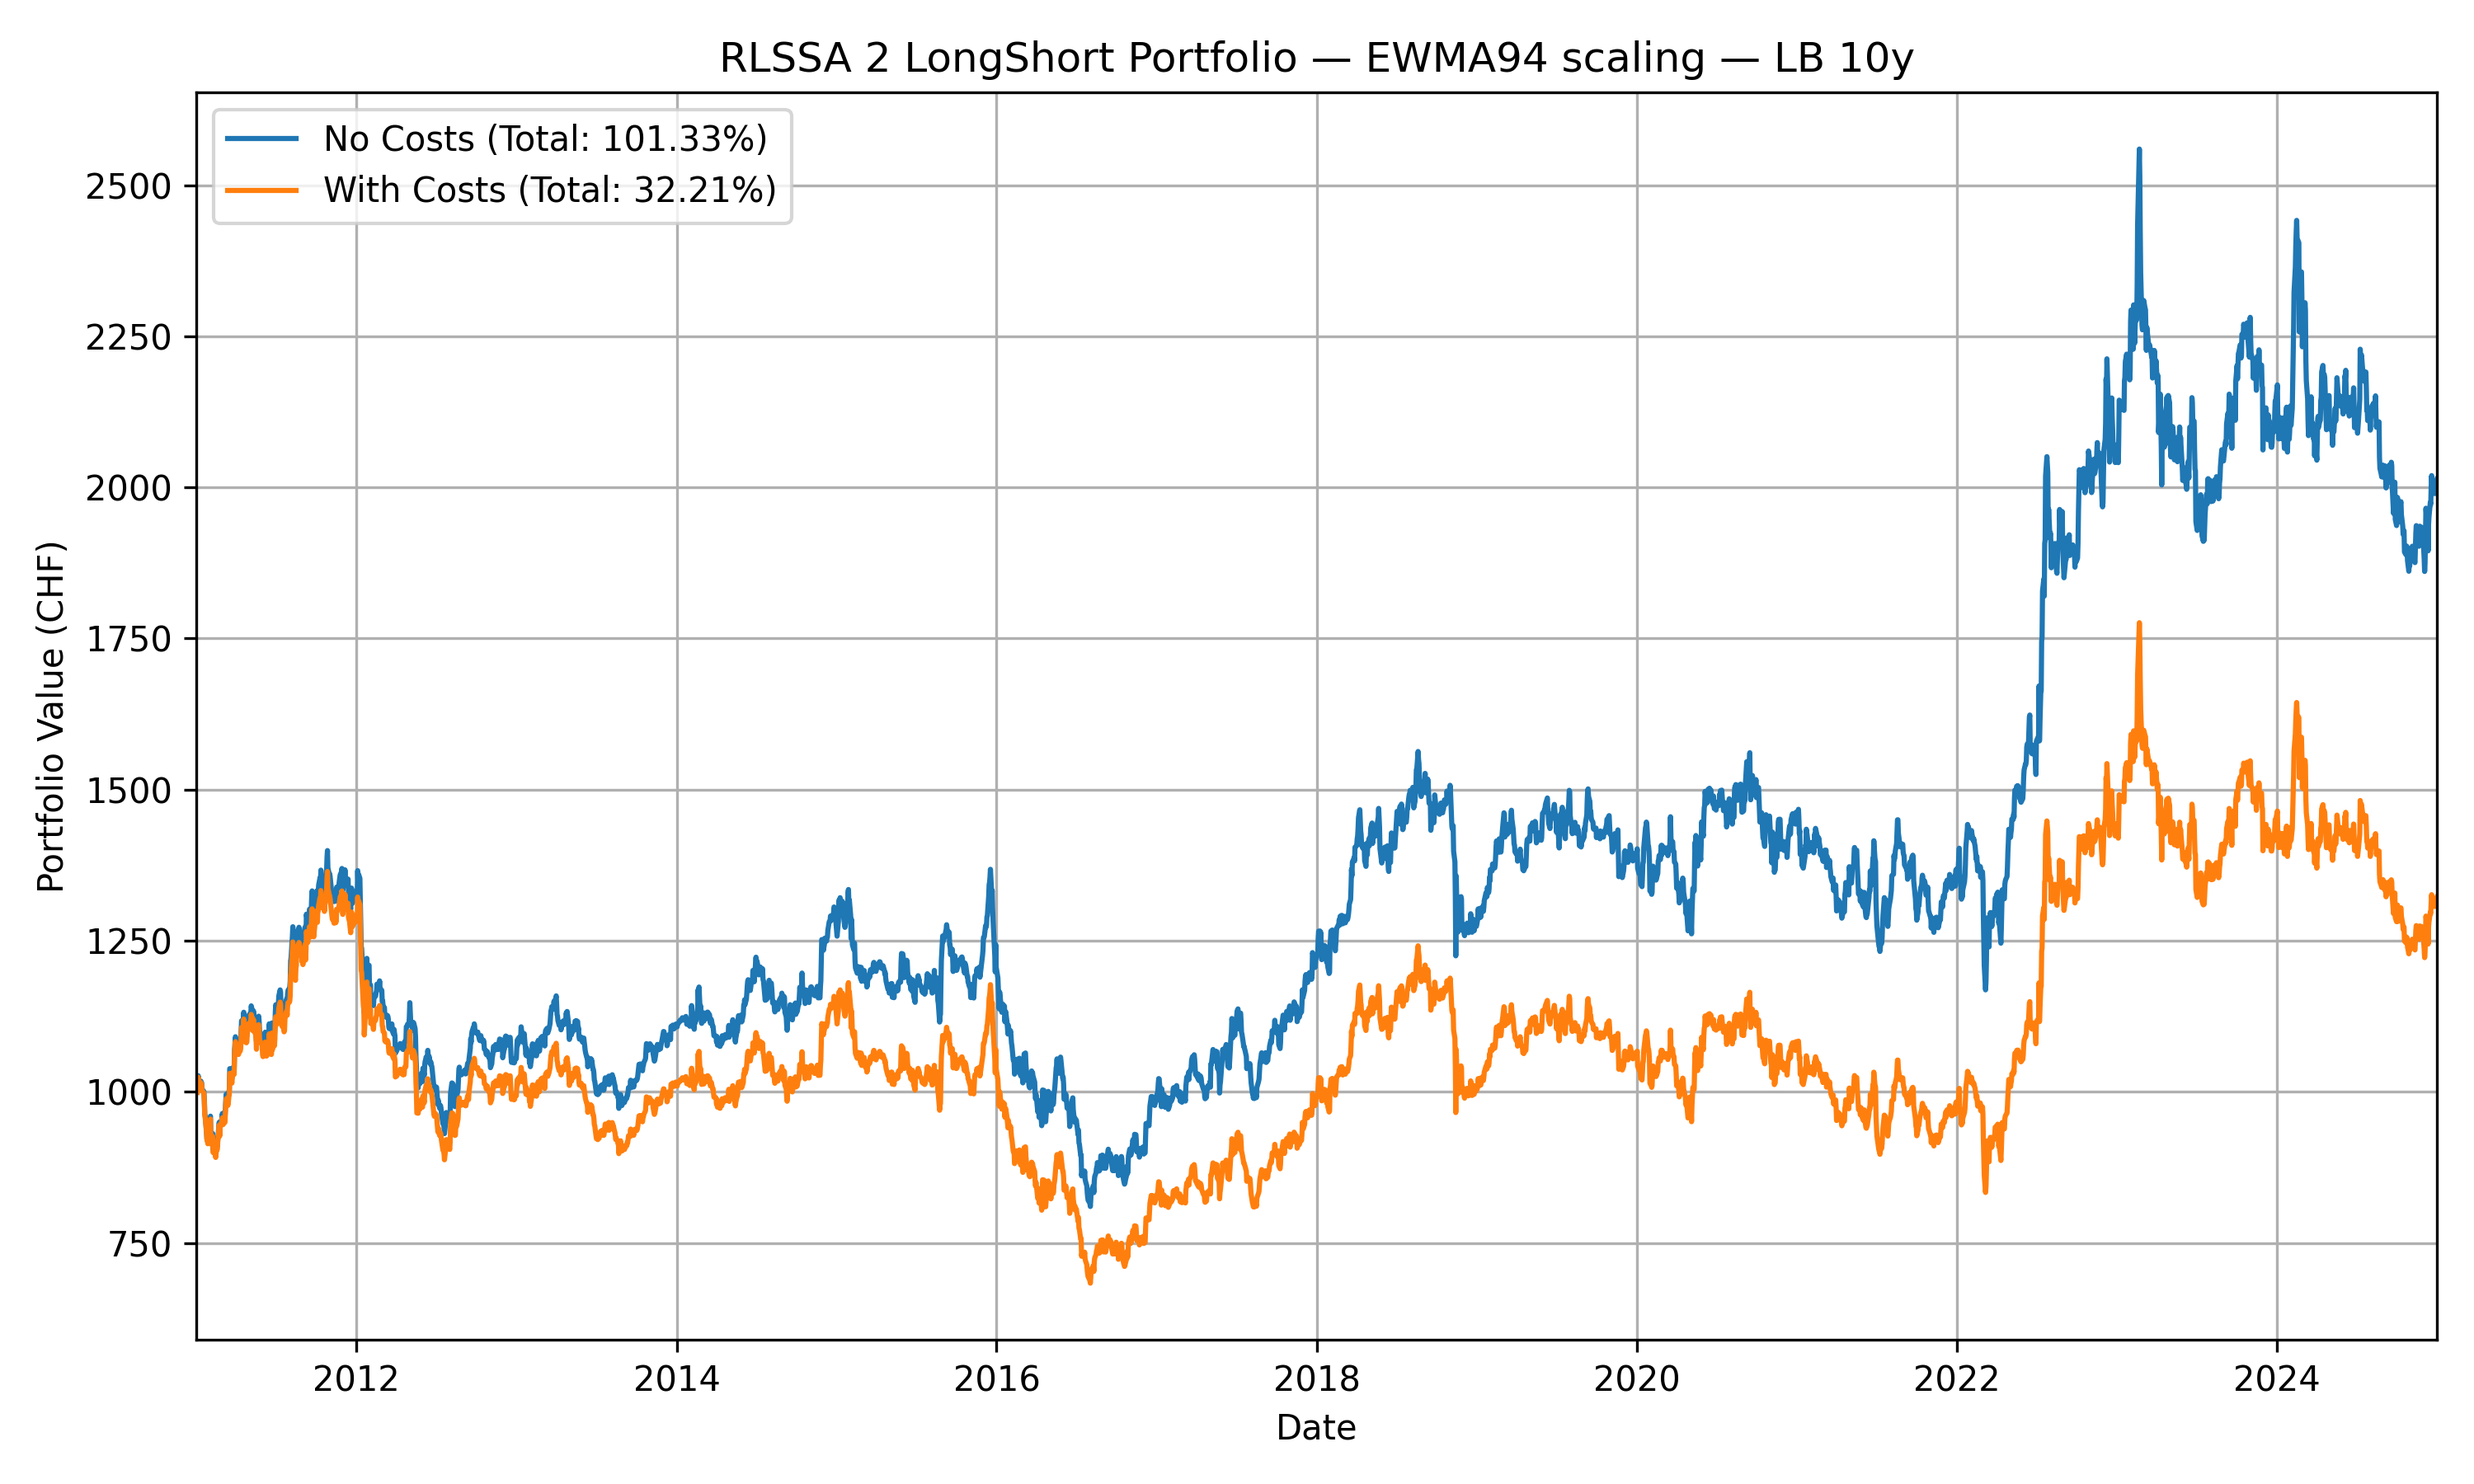
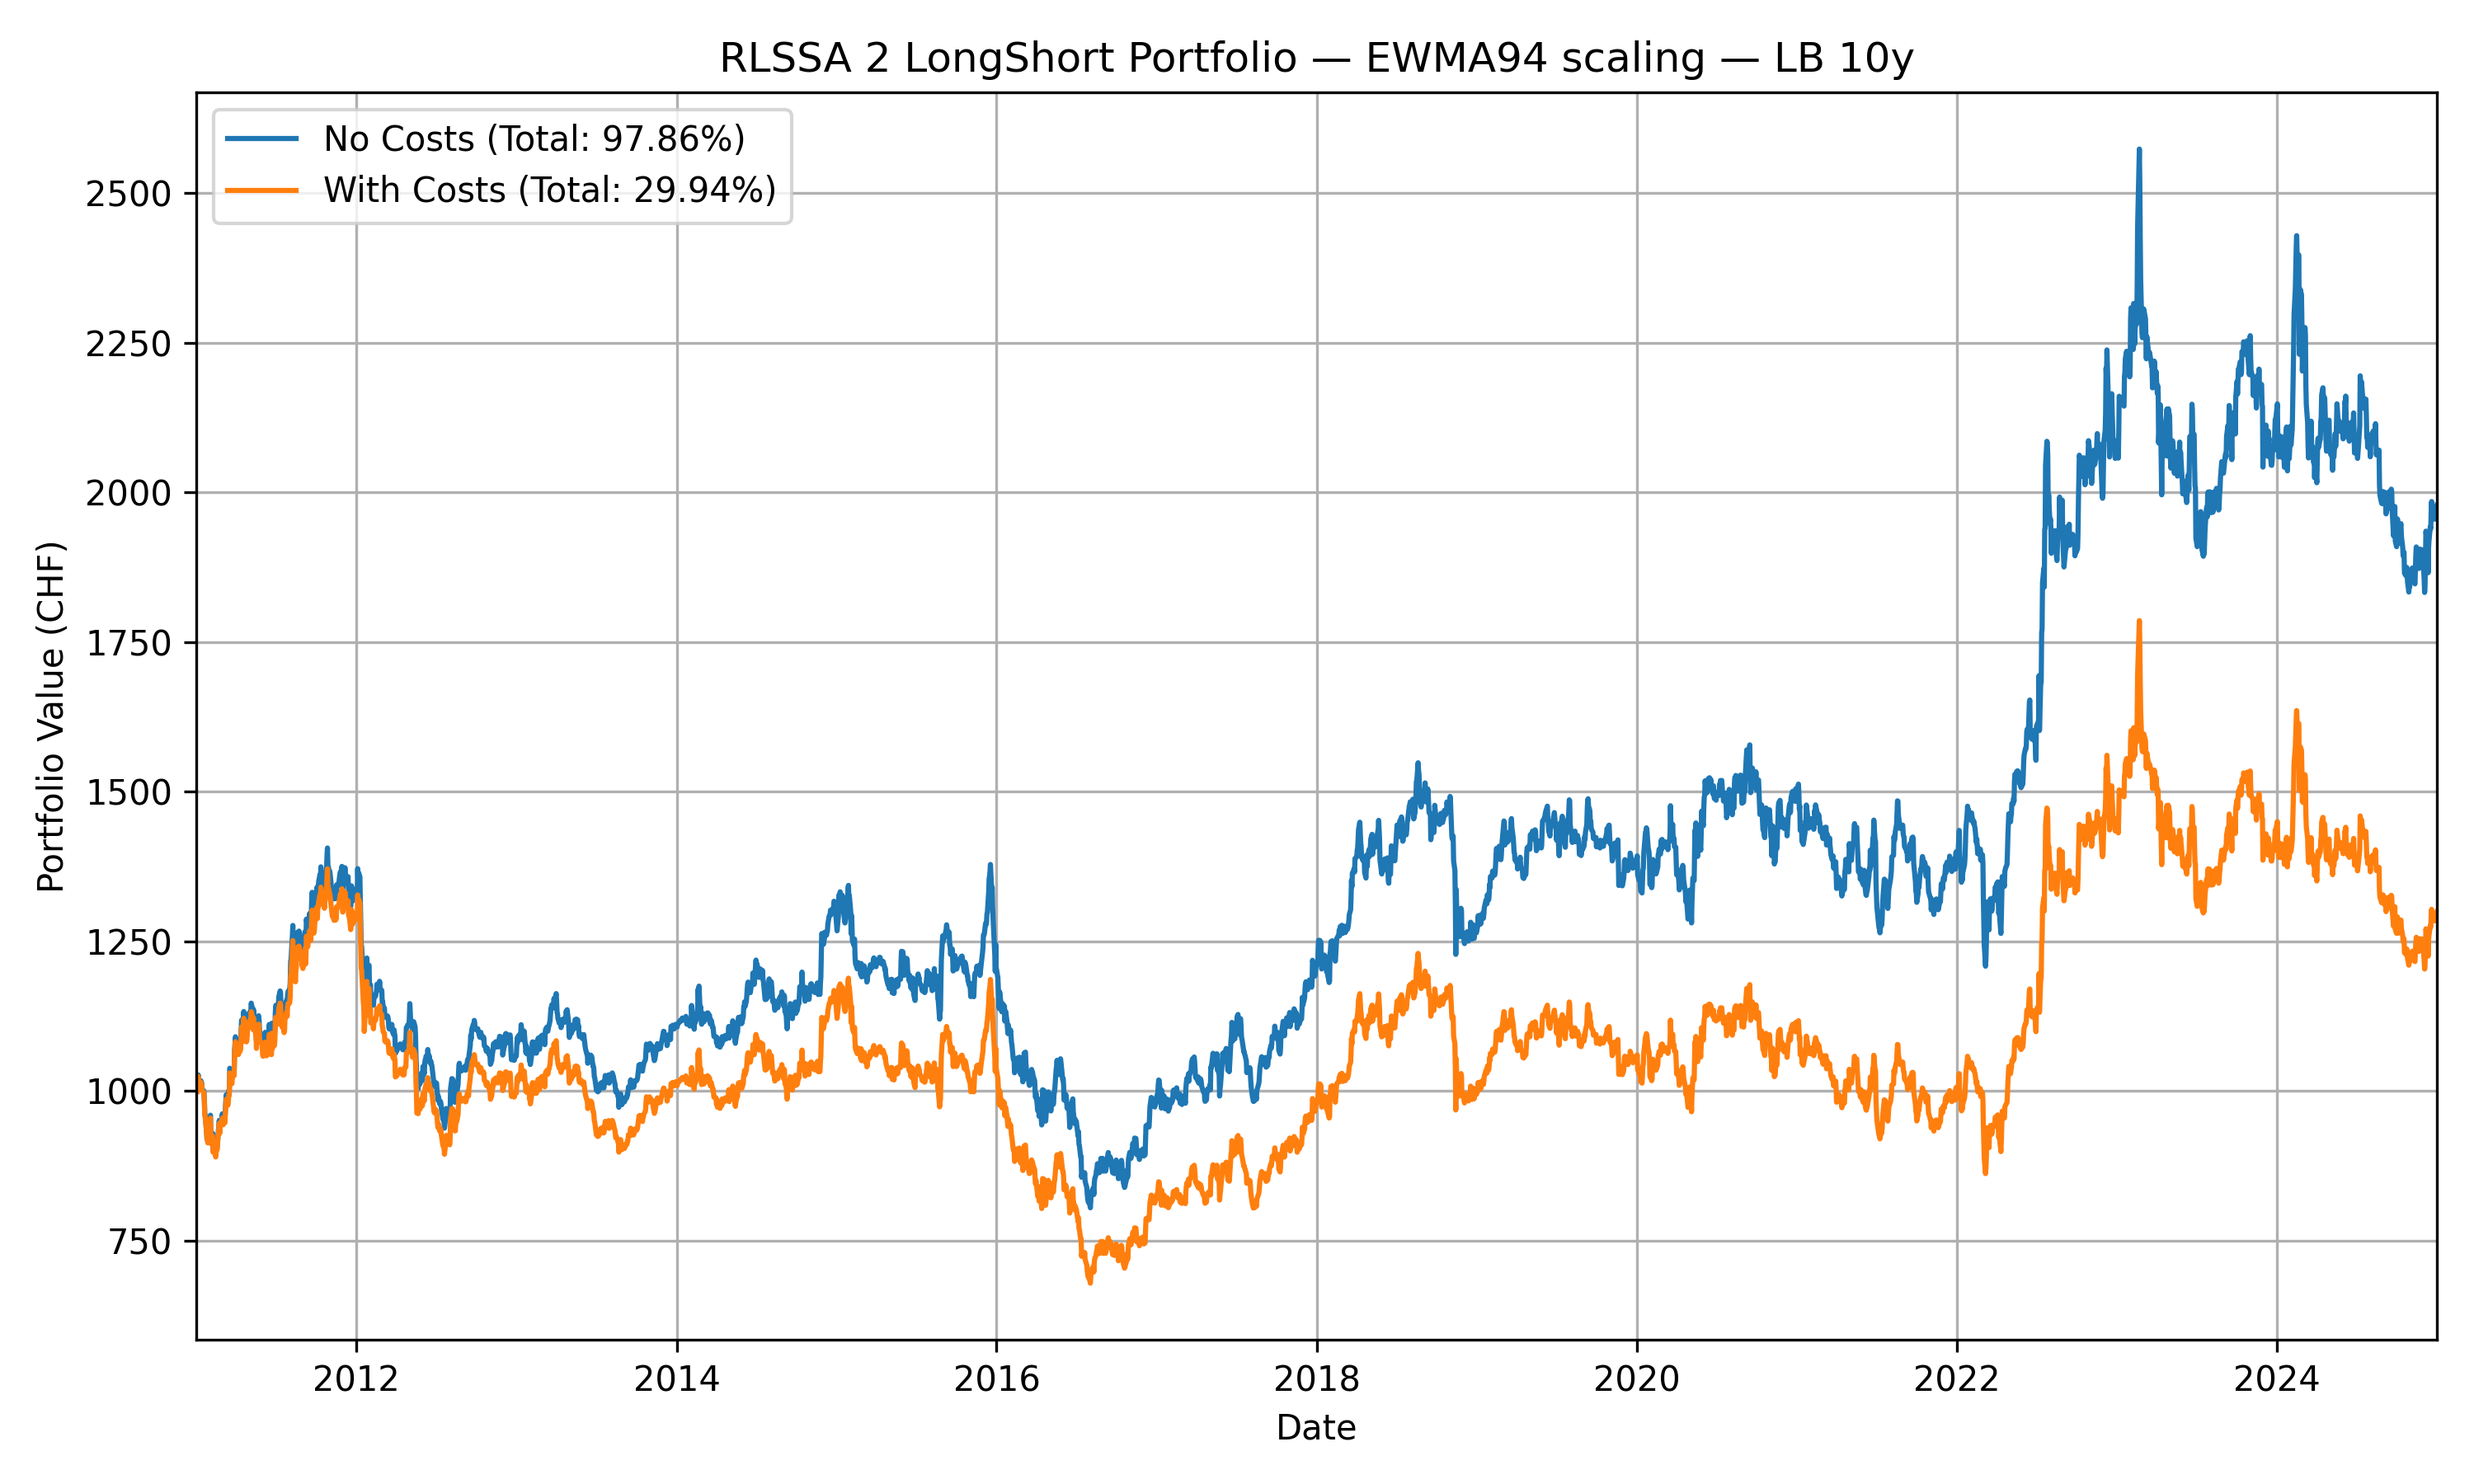
Final Version + Error Correction Redoing the daily Compounding Math for Long & Short Combination

diff --git a/Data Analysis/Seasonality Models/RLSSA_Portfolio_Creator.py b/Data Analysis/Seasonality Models/RLSSA_Portfolio_Creator.py
@@ -20,7 +20,7 @@ SSA_WINDOW      = 12
 SSA_COMPS       = 2                  # robust rank (q)
 
 # EWMA volatility on monthly *simple* returns over the same 10y slice
-USE_EWMA_SCALE  = True               # required by your spec; keep toggle for flexibility
+USE_EWMA_SCALE  = False               # required by your spec; keep toggle for flexibility
 EWMA_LAMBDA     = 0.94               # monthly lambda; alpha = 1 - lambda
 MIN_OBS_FOR_VOL = 12                 # minimum months for EWMA vol
 
@@ -376,7 +376,6 @@ print(f"\nTotal return for {len(records)} months: {tot_return-1:.2%}")
 # -----------------------------------------------------------------------------
 vc_nc = vc_wc = START_VALUE
 dates, nc, wc, overall_return, cur_return = [], [], [], [], []
-Overall_Return = 1.0
 
 for rec in records:
     fc = rec['forecast']
@@ -386,40 +385,56 @@ for rec in records:
     daily = rec['daily_dfs']
     if not daily:
         d = (fc) + pd.offsets.MonthEnd(0)
-        dates += [d]; nc += [vc_nc]; wc += [vc_wc]; overall_return += [Overall_Return]; cur_return += [0.0]
-    else:
-        # entry cost once at month start (before first day’s returns)
-        vc_wc *= (1 - ENTRY_COST)
+        dates += [d]; nc += [vc_nc]; wc += [vc_wc]
+        overall_return += [vc_nc / START_VALUE]; cur_return += [0.0]
+        continue
 
-        all_df = pd.concat([mdf.assign(signal=s) for s, mdf in daily.items()]).sort_values('Date')
-        prevs  = {s: None for s in daily}
+    # entry cost once at month start (before first day’s returns)
+    vc_wc *= (1 - ENTRY_COST)
 
-        for d, grp in all_df.groupby('Date'):
-            rs = 0.0
-            for r in grp.itertuples():
-                sig   = r.signal
-                prev  = prevs[sig]
-                close = r.close
-                if prev is None:
-                    open_ = r.open
-                    r_long = (close / open_) - 1.0
-                else:
-                    r_long = (close / prev) - 1.0
+    all_df = pd.concat([mdf.assign(signal=s) for s, mdf in daily.items()]).sort_values('Date')
 
-                # Exact short step: 1/(1+r_long) - 1 == open/close - 1 at first step, prev/close - 1 later
-                step_ret = (1.0/(1.0 + r_long) - 1.0) if sig.startswith('-') else r_long
+    # --- BUY-AND-HOLD WITHIN MONTH (no daily rebalancing) ---
+    prevs   = {s: None for s in daily}
+    n_legs  = len(daily)
+    leg_nc  = {s: vc_nc / n_legs for s in daily}   # allocate capital at month start
+    leg_wc  = {s: vc_wc / n_legs for s in daily}
 
-                rs += step_ret / len(daily)
-                prevs[sig] = close
+    prev_port_nc = vc_nc
+    prev_port_wc = vc_wc
 
-            vc_nc *= (1 + rs)
-            vc_wc *= (1 + rs)
-            Overall_Return *= (1 + rs)
-            dates.append(d)
-            nc.append(vc_nc)
-            wc.append(vc_wc)
-            overall_return.append(Overall_Return)
-            cur_return.append(rs)
+    for d, grp in all_df.groupby('Date'):
+        for r in grp.itertuples():
+            sig   = r.signal
+            prev  = prevs[sig]
+            close = r.close
+            if prev is None:
+                open_  = r.open
+                r_long = (close / open_) - 1.0
+            else:
+                r_long = (close / prev) - 1.0
+
+            step_ret = (1.0/(1.0 + r_long) - 1.0) if sig.startswith('-') else r_long
+
+            # update leg values (no cross-leg rebal)
+            leg_nc[sig] *= (1.0 + step_ret)
+            leg_wc[sig] *= (1.0 + step_ret)
+            prevs[sig] = close
+
+        # portfolio marks each day
+        new_vc_nc = sum(leg_nc.values())
+        new_vc_wc = sum(leg_wc.values())
+
+        rs_nc = new_vc_nc / prev_port_nc - 1.0
+        prev_port_nc = new_vc_nc
+        prev_port_wc = new_vc_wc
+        vc_nc, vc_wc = new_vc_nc, new_vc_wc
+
+        dates.append(d)
+        nc.append(vc_nc)
+        wc.append(vc_wc)
+        overall_return.append(vc_nc / START_VALUE)
+        cur_return.append(rs_nc)
 
 perf = pd.DataFrame(
     {'Date': dates, 'NoCosts': nc, 'WithCosts': wc,

diff --git a/Data Analysis/Seasonality Models/SSA_Portfolio_Creator.py b/Data Analysis/Seasonality Models/SSA_Portfolio_Creator.py
@@ -13,14 +13,14 @@ START_DATE      = datetime(2001, 1, 1)
 LOOKBACK_YEARS  = 10
 FINAL_END       = datetime(2024, 12, 31)
 
-NUM_SELECT      = 1
+NUM_SELECT      = 2
 MODE            = "LongShort"   # "Long", "Short", or "LongShort"
 
 SSA_WINDOW      = 12
 SSA_COMPS       = 2
 
 # EWMA vol-scaling for ranking
-USE_EWMA_SCALE  = True
+USE_EWMA_SCALE  = False
 EWMA_LAMBDA     = 0.94          # monthly decay; alpha = 1 - lambda
 MIN_OBS_FOR_VOL = 12            # min months needed to compute EWMA
 
@@ -297,7 +297,6 @@ print(f"\nTotal return for {len(records)} months: {tot_return-1:.2%}")
 # ---------------------------------------------------------------------
 vc_nc = vc_wc = START_VALUE
 dates, nc, wc, overall_return, cur_return = [], [], [], [], []
-Overall_Return = 1.0
 
 for rec in records:
     fc = rec['forecast']
@@ -307,39 +306,56 @@ for rec in records:
     daily = rec['daily_dfs']
     if not daily:
         d = (fc) + pd.offsets.MonthEnd(0)
-        dates += [d]; nc += [vc_nc]; wc += [vc_wc]; overall_return += [Overall_Return]; cur_return += [0.0]
+        dates += [d]; nc += [vc_nc]; wc += [vc_wc]
+        overall_return += [vc_nc / START_VALUE]; cur_return += [0.0]
         continue
 
-    # apply entry cost once, before first day's returns
+    # entry cost once at month start (before first day’s returns)
     vc_wc *= (1 - ENTRY_COST)
 
     all_df = pd.concat([mdf.assign(signal=s) for s, mdf in daily.items()]).sort_values('Date')
-    prevs  = {s: None for s in daily}
+
+    # --- BUY-AND-HOLD WITHIN MONTH (no daily rebalancing) ---
+    prevs   = {s: None for s in daily}
+    n_legs  = len(daily)
+    leg_nc  = {s: vc_nc / n_legs for s in daily}   # allocate capital at month start
+    leg_wc  = {s: vc_wc / n_legs for s in daily}
+
+    prev_port_nc = vc_nc
+    prev_port_wc = vc_wc
 
     for d, grp in all_df.groupby('Date'):
-        rs = 0.0
         for r in grp.itertuples():
-            sig = r.signal
-            prev = prevs[sig]
+            sig   = r.signal
+            prev  = prevs[sig]
             close = r.close
             if prev is None:
-                open_ = r.open
+                open_  = r.open
                 r_long = (close / open_) - 1.0
             else:
                 r_long = (close / prev) - 1.0
 
-            step_ret = (1.0 / (1.0 + r_long) - 1.0) if sig.startswith('-') else r_long
-            rs += step_ret / len(daily)
+            step_ret = (1.0/(1.0 + r_long) - 1.0) if sig.startswith('-') else r_long
+
+            # update leg values (no cross-leg rebal)
+            leg_nc[sig] *= (1.0 + step_ret)
+            leg_wc[sig] *= (1.0 + step_ret)
             prevs[sig] = close
 
-        vc_nc *= (1 + rs)
-        vc_wc *= (1 + rs)
-        Overall_Return *= (1 + rs)
+        # portfolio marks each day
+        new_vc_nc = sum(leg_nc.values())
+        new_vc_wc = sum(leg_wc.values())
+
+        rs_nc = new_vc_nc / prev_port_nc - 1.0
+        prev_port_nc = new_vc_nc
+        prev_port_wc = new_vc_wc
+        vc_nc, vc_wc = new_vc_nc, new_vc_wc
+
         dates.append(d)
         nc.append(vc_nc)
         wc.append(vc_wc)
-        overall_return.append(Overall_Return)
-        cur_return.append(rs)
+        overall_return.append(vc_nc / START_VALUE)
+        cur_return.append(rs_nc)
 
 perf = pd.DataFrame(
     {'Date': dates, 'NoCosts': nc, 'WithCosts': wc,
